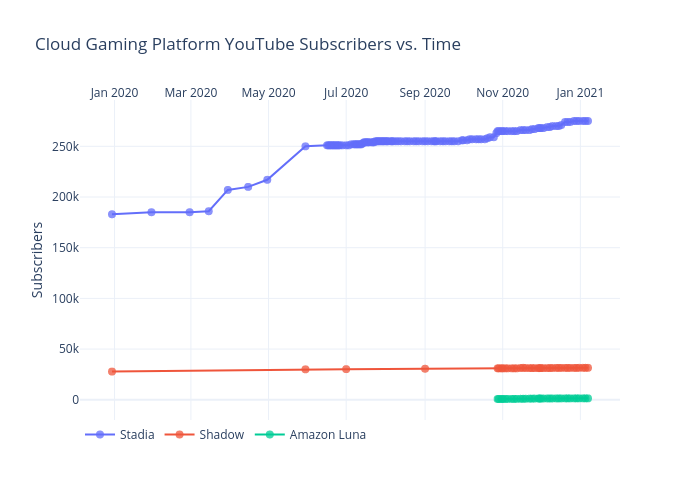
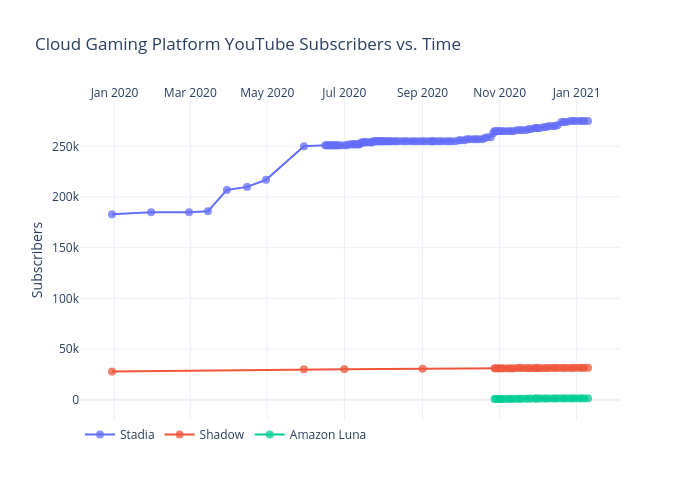
Add files via upload

diff --git a/youtube_platforms/figure.js b/youtube_platforms/figure.js
@@ -279,6 +279,7 @@ var figure = {
                 "275000",
                 "275000",
                 "275000",
+                "275000",
                 "275000"
             ],
             "marker": {
@@ -565,6 +566,7 @@ var figure = {
                 "31400",
                 "31400",
                 "31400",
+                "31500",
                 "31500",
                 "31500",
                 "31500",
@@ -857,7 +859,8 @@ var figure = {
                 "1370",
                 "1370",
                 "1370",
-                "1370"
+                "1370",
+                "1390"
             ],
             "marker": {
                 "size": 8,
@@ -876,8 +879,8 @@ var figure = {
             "side": "top",
             "type": "date",
             "range": [
-                "2019-12-06 21:01:07.0807",
-                "2021-01-30 02:58:52.9193"
+                "2019-12-06 16:34:00.8809",
+                "2021-02-02 07:25:59.1191"
             ],
             "title": {
                 "text": ""
